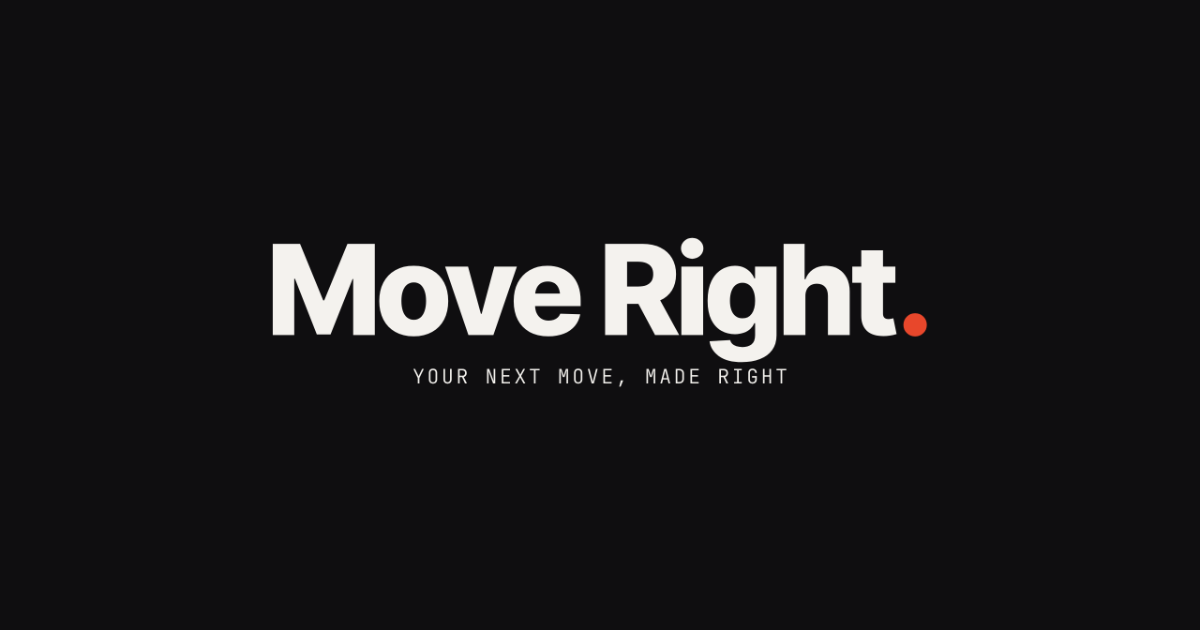
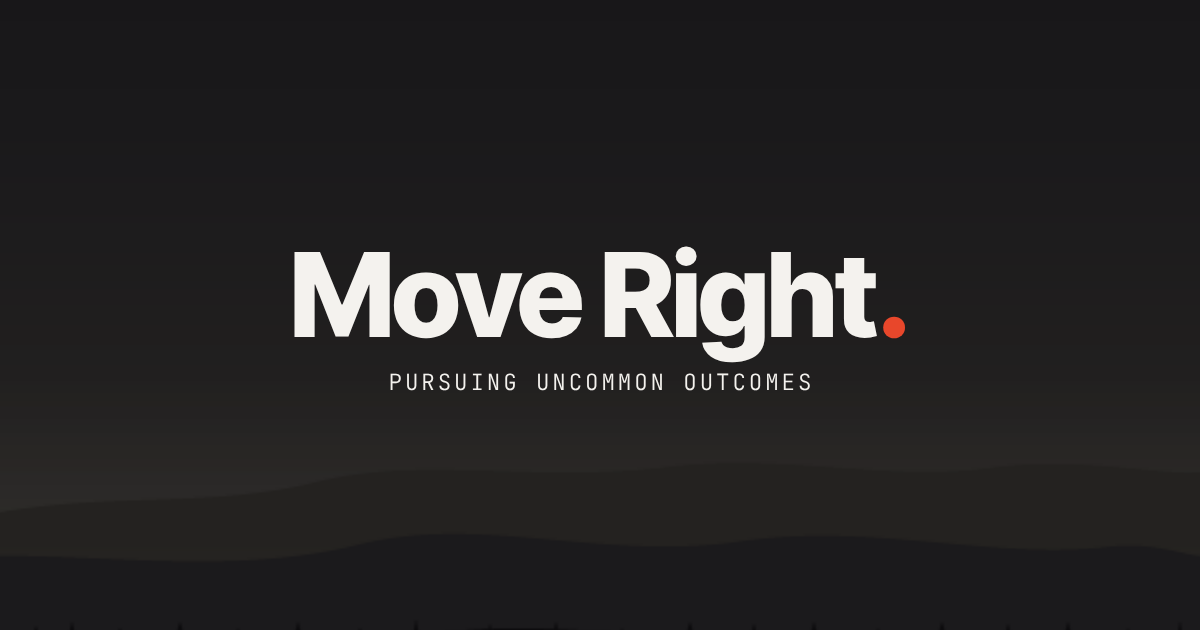
Update meta + OG image to Pursuing Uncommon Outcomes

Changed region(s): [[0.2158, 0.3619, 0.7708, 0.6333], [0.0, 0.6937, 1.0, 0.8143]]

diff --git a/index.html b/index.html
@@ -3,8 +3,8 @@
 <head>
 <meta charset="utf-8" />
 <meta name="viewport" content="width=device-width, initial-scale=1" />
-<title>Move Right | Your Next Move, Made Right</title>
-<meta name="description" content="Move Right is where entrepreneurs and investors building businesses, portfolios, families, and futures architect their next right move." />
+<title>Move Right | Pursuing Uncommon Outcomes</title>
+<meta name="description" content="Move Right is about bucking the trend of what's &quot;normal&quot; in pursuit of what's possible." />
 <meta name="author" content="Zach Kosturos" />
 
 <!-- canonical + crawler hints -->
@@ -21,21 +21,21 @@
 <meta property="og:type" content="website" />
 <meta property="og:site_name" content="Move Right" />
 <meta property="og:locale" content="en_US" />
-<meta property="og:title" content="Move Right | Your Next Move, Made Right" />
-<meta property="og:description" content="Move Right is where entrepreneurs and investors building businesses, portfolios, families, and futures architect their next right move." />
+<meta property="og:title" content="Move Right | Pursuing Uncommon Outcomes" />
+<meta property="og:description" content="Move Right is about bucking the trend of what's &quot;normal&quot; in pursuit of what's possible." />
 <meta property="og:url" content="https://www.moveright.me/" />
 <meta property="og:image" content="https://www.moveright.me/assets/og-image.png" />
 <meta property="og:image:type" content="image/png" />
 <meta property="og:image:width" content="1200" />
 <meta property="og:image:height" content="630" />
-<meta property="og:image:alt" content="Move Right | Your Next Move, Made Right" />
+<meta property="og:image:alt" content="Move Right | Pursuing Uncommon Outcomes" />
 
 <!-- Twitter / X -->
 <meta name="twitter:card" content="summary_large_image" />
 <meta name="twitter:site" content="@zkosturos" />
 <meta name="twitter:creator" content="@zkosturos" />
-<meta name="twitter:title" content="Move Right | Your Next Move, Made Right" />
-<meta name="twitter:description" content="Move Right is where entrepreneurs and investors building businesses, portfolios, families, and futures architect their next right move." />
+<meta name="twitter:title" content="Move Right | Pursuing Uncommon Outcomes" />
+<meta name="twitter:description" content="Move Right is about bucking the trend of what's &quot;normal&quot; in pursuit of what's possible." />
 <meta name="twitter:image" content="https://www.moveright.me/assets/og-image.png" />
 
 <!-- LCP hero preload -->
@@ -58,7 +58,7 @@
       "@id": "https://www.moveright.me/#website",
       "url": "https://www.moveright.me/",
       "name": "Move Right",
-      "description": "Move Right is where entrepreneurs and investors building businesses, portfolios, families, and futures architect their next right move.",
+      "description": "Move Right is about bucking the trend of what's 'normal' in pursuit of what's possible.",
       "inLanguage": "en-US",
       "publisher": { "@id": "https://www.moveright.me/#person" }
     },
@@ -282,7 +282,7 @@
     justify-content:center;
   }
   .hero-eyebrow{margin-bottom:28px}
-  .hero-eyebrow .sep{margin:0 10px}
+  .hero-eyebrow .sep{margin:0}
   h1 .soft{color:var(--bone)}
   .hero-lead{
     font-size:clamp(19px,1.6vw,21px);
@@ -818,7 +818,7 @@
   <div class="wrap nav">
     <a class="wordmark" href="#top" aria-label="Move Right"><img src="assets/logo-horizontal.webp" alt="Move Right" width="500" height="140" decoding="async" fetchpriority="high" /></a>
     <nav class="nav-right">
-      <a class="btn ghost cta-luma" href="https://luma.com/knkxtmbj" target="_blank" rel="noopener" style="border-radius: 5px; white-space: nowrap">Join Us Thursday →</a>
+      <a class="btn ghost cta-luma" href="https://luma.com/knkxtmbj" target="_blank" rel="noopener" style="border-radius: 5px; white-space: nowrap">Apply To Join →</a>
     </nav>
   </div>
 </header>
@@ -833,17 +833,17 @@
     <div class="hero-grid">
 
       <div>
-        <p class="mono eyebrow on-dark hero-eyebrow reveal">
+        <p class="mono eyebrow on-dark hero-eyebrow reveal" style="margin-bottom:0">
           <span class="dot"></span>
-          <span style="font-size: 16px">MEETUP - EVERY THURSDAY @ 12PM ET</span><span class="sep">•</span><span style="font-size: 16px">LIVE, VIRTUAL</span>
+          <span style="font-size: 16px">WEEKLY MEETUP</span><span class="sep">•</span><span style="font-size: 16px">LIVE, VIRTUAL</span>
         </p>
 
-        <h1 class="reveal d1" style="font-size: clamp(40px,6.4vw,80px); font-weight: 700; line-height: 1.02; letter-spacing: -0.02em; width: 100%; margin-left: auto; margin-right: auto">What are you building?</h1>
+        <h1 class="reveal d1" style="font-size: clamp(54px,10vw,96px); font-weight: 700; line-height: 1.02; letter-spacing: -0.02em; margin: 34px auto">What could be<span style="color:var(--signal)">.</span></h1>
 
-        <p class="hero-lead reveal d2" style="font-size: 21px">Bring what you're building. The business. The investment. The marriage. The family. The calling. The next chapter.<br /><br />We'll help you architect a plan and <strong style="font-weight:700">Move Right<span style="color:var(--signal)">.</span></strong></p>
+        <p class="hero-lead reveal d2" style="font-size: 21px; font-weight: 400">Most people settle for what is. If you're after what <em style="font-weight:700">could</em> be, the business, the investment, the marriage, the family, the calling.<br /><br />We'll help you figure out how to <strong style="font-weight:700">Move Right<span style="color:var(--signal)">.</span></strong></p>
 
         <div class="hero-cta reveal d3">
-          <a class="btn cta-luma" href="https://luma.com/knkxtmbj" target="_blank" rel="noopener">Join Us Thursday →</a>
+          <a class="btn cta-luma" href="https://luma.com/knkxtmbj" target="_blank" rel="noopener">Apply To Join →</a>
         </div>
 
         <p class="mono trust reveal d3">
@@ -863,9 +863,9 @@
     <div class="why-inner">
       <div class="why-lede">
         <p class="mono eyebrow section-eyebrow reveal">
-          <span class="dot"></span><span style="font-weight: 400; font-size: 16px">BUILT TOGETHER</span>
+          <span class="dot"></span><span style="font-weight: 400; font-size: 16px">WHAT IS vs. WHAT COULD BE</span>
         </p>
-        <h2 class="reveal d1">We can go farther together<span style="color:var(--signal)">.</span></h2>
+        <h2 class="reveal d1">Most people settle for what is<span style="color:var(--signal)">.</span></h2>
 
         <div class="why-mark reveal d3" aria-hidden="true">
           <span class="label">MOVE RIGHT</span>
@@ -875,21 +875,21 @@
       </div>
 
       <div class="why-body">
-        <p class="reveal d2" style="font-weight: 400">We're all builders, building businesses, portfolios, families, lives, and futures.<br /><br />Sometimes, the biggest challenge is not knowing what to do next. Other times, it's not being sure if it's even possible, or how to make it real. And sometimes, it's simply the weight of trying to build it alone.
+        <p class="reveal d2" style="font-weight: 400"><strong style="font-weight:700">Move Right<span style="color:var(--signal)">.</span></strong> is about pursuing what could be.<br /><br />So much of what we're told to accept as “normal” today isn't what most of us actually want, let alone what's actually possible.
 
 </p>
 
-        <p class="reveal d2" style="font-weight: 600; margin-bottom: 16px">And the solution is often found in each other.<br /><br /><span style="font-weight:400">Join the weekly meetup to:</span></p>
+        <p class="reveal d2" style="font-weight: 600; margin-bottom: 16px">And this is where we work together to pursue what's possible.<br /><br /><span style="font-weight:400">Join the weekly meetup to:</span></p>
 
         <ul class="fork-list reveal d2">
-          <li><strong style="font-weight:700">Gain clarity</strong> on your next right move</li>
-          <li><strong style="font-weight:700">Pressure-test</strong> your thinking with other builders</li>
-          <li><strong style="font-weight:700">See bigger possibilities</strong> and how to make them real</li>
-          <li><strong style="font-weight:700">Find the right people</strong> to sharpen, strengthen, and challenge you</li>
-          <li><strong style="font-weight:700">Leave with</strong> conviction, confidence, and a plan</li>
+          <li><strong style="font-weight:700">Get inspired</strong> by others who aren't settling for "normal."</li>
+          <li><strong style="font-weight:700">Pressure-test</strong> your ideas with other like-minded people.</li>
+          <li><strong style="font-weight:700">See bigger possibilities</strong> and how others are making them real.</li>
+          <li><strong style="font-weight:700">Join a community</strong> of people who you can relate to.</li>
+          <li><strong style="font-weight:700">Leave with</strong> conviction, confidence, excitement and a tribe.</li>
         </ul>
 
-        <p class="kicker reveal d2">Because the right people don’t just help us go farther, they help us build better<span style="color:var(--signal)">.</span>
+        <p class="kicker reveal d2">Because “normal” is a choice. So is <strong style="font-weight:700">uncommon</strong><span style="color:var(--signal)">.</span>
 </p>
       </div>
     </div>
@@ -910,17 +910,17 @@
       <div class="step reveal">
         <p class="num"><span class="dot"></span>THE ROOM</p>
         <h3>A small group of high-capacity people.</h3>
-        <p>Founders, operators, and leaders working through real decisions in real time, with each other.</p>
+        <p>Founders, operators, and leaders pursuing what's possible, together.</p>
       </div>
       <div class="step reveal d1">
         <p class="num"><span class="dot"></span>THE FORMAT</p>
         <h3>You bring what you're building.</h3>
-        <p>We think through it together, out loud, exploring how to get from where you are to where you want to be.</p>
+        <p>We think through it together, out loud, exploring how to take you from what <em>is</em> to what <em>could</em> be.</p>
       </div>
       <div class="step reveal d2">
         <p class="num"><span class="dot"></span>WHAT YOU LEAVE WITH</p>
-        <h3>Clarity you couldn't reach alone.</h3>
-        <p>That, and a circle of people who are committed to helping you get where you're trying to go.</p>
+        <h3>Conviction you couldn't reach alone.</h3>
+        <p>That, and a tribe of people committed to what's possible, not what's normal.</p>
       </div>
     </div>
 
@@ -929,7 +929,7 @@
         <span class="item"><span class="dot"></span>No gurus</span>
         <span class="item"><span class="dot"></span>No sales pitches</span>
       </div>
-      <a class="btn reveal d3 cta-luma" href="https://luma.com/knkxtmbj" target="_blank" rel="noopener" style="padding:16px 28px;font-size:16px;border-radius:8px">Join Us Thursday →</a>
+      <a class="btn reveal d3 cta-luma" href="https://luma.com/knkxtmbj" target="_blank" rel="noopener" style="padding:16px 28px;font-size:16px;border-radius:8px">Apply To Join →</a>
     </div>
   </div>
 </section>
@@ -944,23 +944,19 @@
         <p class="mono eyebrow section-eyebrow reveal">
           <span class="dot"></span><span style="font-weight: 400; font-size: 16px">WHO'S HOSTING</span>
         </p>
-        <h2 class="reveal d1">Built by someone who's still building<span style="color:var(--signal)">.</span></h2>
+        <h2 class="reveal d1">Hosted by someone obsessed with uncommon outcomes<span style="color:var(--signal)">.</span></h2>
 
-        <p class="reveal d2">I’m Zach Kosturos. A believer, husband, father, entrepreneur, investor, and fellow builder.</p>
+        <p class="reveal d2">I’m Zach Kosturos. A Believer, husband of 23+ years, father of six, entrepreneur, and investor.</p>
 
-        <p class="reveal d2">For the last 20+ years, I’ve built businesses, buildings, a portfolio, and a family. I've stewarded over $1B in commercial real estate and allocated millions in capital.</p>
+        <p class="reveal d2">I’m obsessed with uncommon (worthwhile) outcomes and with what’s possible when you refuse to settle for “normal.”</p>
 
-        <p class="reveal d2">On the journey, I realized what I love most is architecting. The strategy, structure, and right moves that turn vision into reality.</p>
+        <p class="reveal d2">My hunt for what leads to them has helped me stay happily married for over 20 years, grow a big family, build multiple successful seven-figure businesses, steward over $1B in commercial real estate, and assemble an investment portfolio of over $75M (with partners).</p>
 
-        <p class="reveal d2">And I’ve learned something else:</p>
-
-        <p class="reveal d2"><strong style="font-weight:700">We build better when we build together.</strong></p>
-
-        <p class="reveal d2">When we’re surrounded by people who sharpen us, strengthen us, and help us see what we can’t see on our own.</p>
+        <p class="reveal d2"><strong style="font-weight:700">And I love helping others experience what’s possible, too.</strong></p>
 
         <p class="reveal d2">That’s why I started <strong style="font-weight:700">Move Right<span style="color:var(--signal)">.</span></strong></p>
 
-        <p class="kicker reveal d2"><strong style="font-weight:700">Move Right<span style="color:var(--signal)">.</span></strong> is a room for builders to bring their vision, pressure-test their plan, and architect their next right move.</p>
+        <p class="kicker reveal d2"><strong style="font-weight:700">Move Right<span style="color:var(--signal)">.</span></strong> is a room for people who refuse to settle for what’s “normal” and are committed to pursuing what <strong style="font-weight:700">could be<span style="color:var(--signal)">.</span></strong></p>
       </div>
     </div>
   </div>
@@ -976,7 +972,7 @@
         <span class="dot"></span><span style="font-size: 16px">IN THE MEANTIME</span>
       </p>
       <h2 class="reveal d1">Not able to join us this week<span style="color:#0f0e10">?</span></h2>
-      <p class="intro reveal d2">No problem. Here's where I think out loud the rest of the week. Get a feel for how I see things before you join us, or just stay connected between Thursdays.</p>
+      <p class="intro reveal d2">No problem. This is where I think out loud the rest of the week, sharing what I'm finding about what leads to uncommon outcomes. Get a feel for how I see things before Thursday.</p>
     </div>
 
     <div class="connect-grid">
@@ -985,8 +981,8 @@
       <a class="ccard c-youtube reveal" href="https://www.youtube.com/@ZKosturos" target="_blank" rel="noopener">
         <span class="cbg" aria-hidden="true"></span>
         <p class="mono eyebrow label"><span class="dot"></span><span>YOUTUBE</span></p>
-        <h3>Where I architect in public<span style="color:var(--signal)">.</span></h3>
-        <p>Where I unpack the ideas, questions, and right moves behind building better businesses, investments, and lives.</p>
+        <h3>Where I think out loud in public<span style="color:var(--signal)">.</span></h3>
+        <p>Where I unpack the ideas, questions, and what I'm doing to pursue uncommon outcomes.</p>
         <span class="cta">Watch on YouTube
 →</span>
       </a>
@@ -1006,7 +1002,7 @@
         <span class="cbg" aria-hidden="true"></span>
         <p class="mono eyebrow label"><span class="dot"></span><span>X</span></p>
         <h3>The signal in real time<span style="color:var(--signal)">.</span></h3>
-        <p>Quick thoughts, sharper questions, and the patterns I’m noticing as I build.</p>
+        <p>Where I share what's on my mind as I pursue what's possible.</p>
         <span class="cta">Follow on X
 →</span>
       </a>
@@ -1034,19 +1030,19 @@
     <div class="map-inner" style="max-width: 1040px">
 
       <p class="mono eyebrow on-dark section-eyebrow reveal">
-        <span class="dot"></span><span style="font-size: 16px">THURSDAYS</span><span class="sep">·</span><span style="font-size: 16px">12PM ET</span>
+        <span class="dot"></span><span style="font-size: 16px">WEEKLY MEETUP</span>
       </p>
 
       <h2 class="reveal d1" style="margin: 0px 0px 28px; font-size: clamp(34px,5.2vw,64px); line-height: 1.05; letter-spacing: -0.02em">Save your seat for Thursday<span style="color:#e8472b">.</span></h2>
 
-      <p class="reveal d2" style="margin: 0px auto 10px; font-size: 20px">Bring what you're building. Leave with clarity, conviction, and the next right move.</p>
+      <p class="reveal d2" style="margin: 0px auto 10px; font-size: 20px">Bring what you're pursuing. Leave with clarity, conviction, and your next right move.</p>
 
-      <p class="reveal d2" style="margin: 0px auto 30px; font-size: 16px; color: rgba(244,242,238,.8); max-width: 560px">A small room of serious builders helping each other architect what’s next. Seats are limited. Save yours for Thursday.</p>
+      <p class="reveal d2" style="margin: 0px auto 30px; font-size: 16px; color: rgba(244,242,238,.8); max-width: 560px">A small room of people who refuse to settle, helping each other pursue what’s possible. Seats are limited. Save yours for Thursday.</p>
 
       <!-- All "Join" / "Save My Seat" buttons point to your Luma event.
            UPDATE WEEKLY in ONE place: the LUMA_URL constant in the script near the bottom of this file. -->
       <div class="reveal d3" style="margin-top: 8px">
-        <a class="btn cta-luma" id="join-cta" href="https://luma.com/knkxtmbj" target="_blank" rel="noopener" style="padding:17px 34px;font-size:17px;border-radius:8px">Save My Seat →</a>
+        <a class="btn cta-luma" id="join-cta" href="https://luma.com/knkxtmbj" target="_blank" rel="noopener" style="padding:17px 34px;font-size:17px;border-radius:8px">Apply To Join →</a>
       </div>
 
       <p class="mono trust reveal d3">